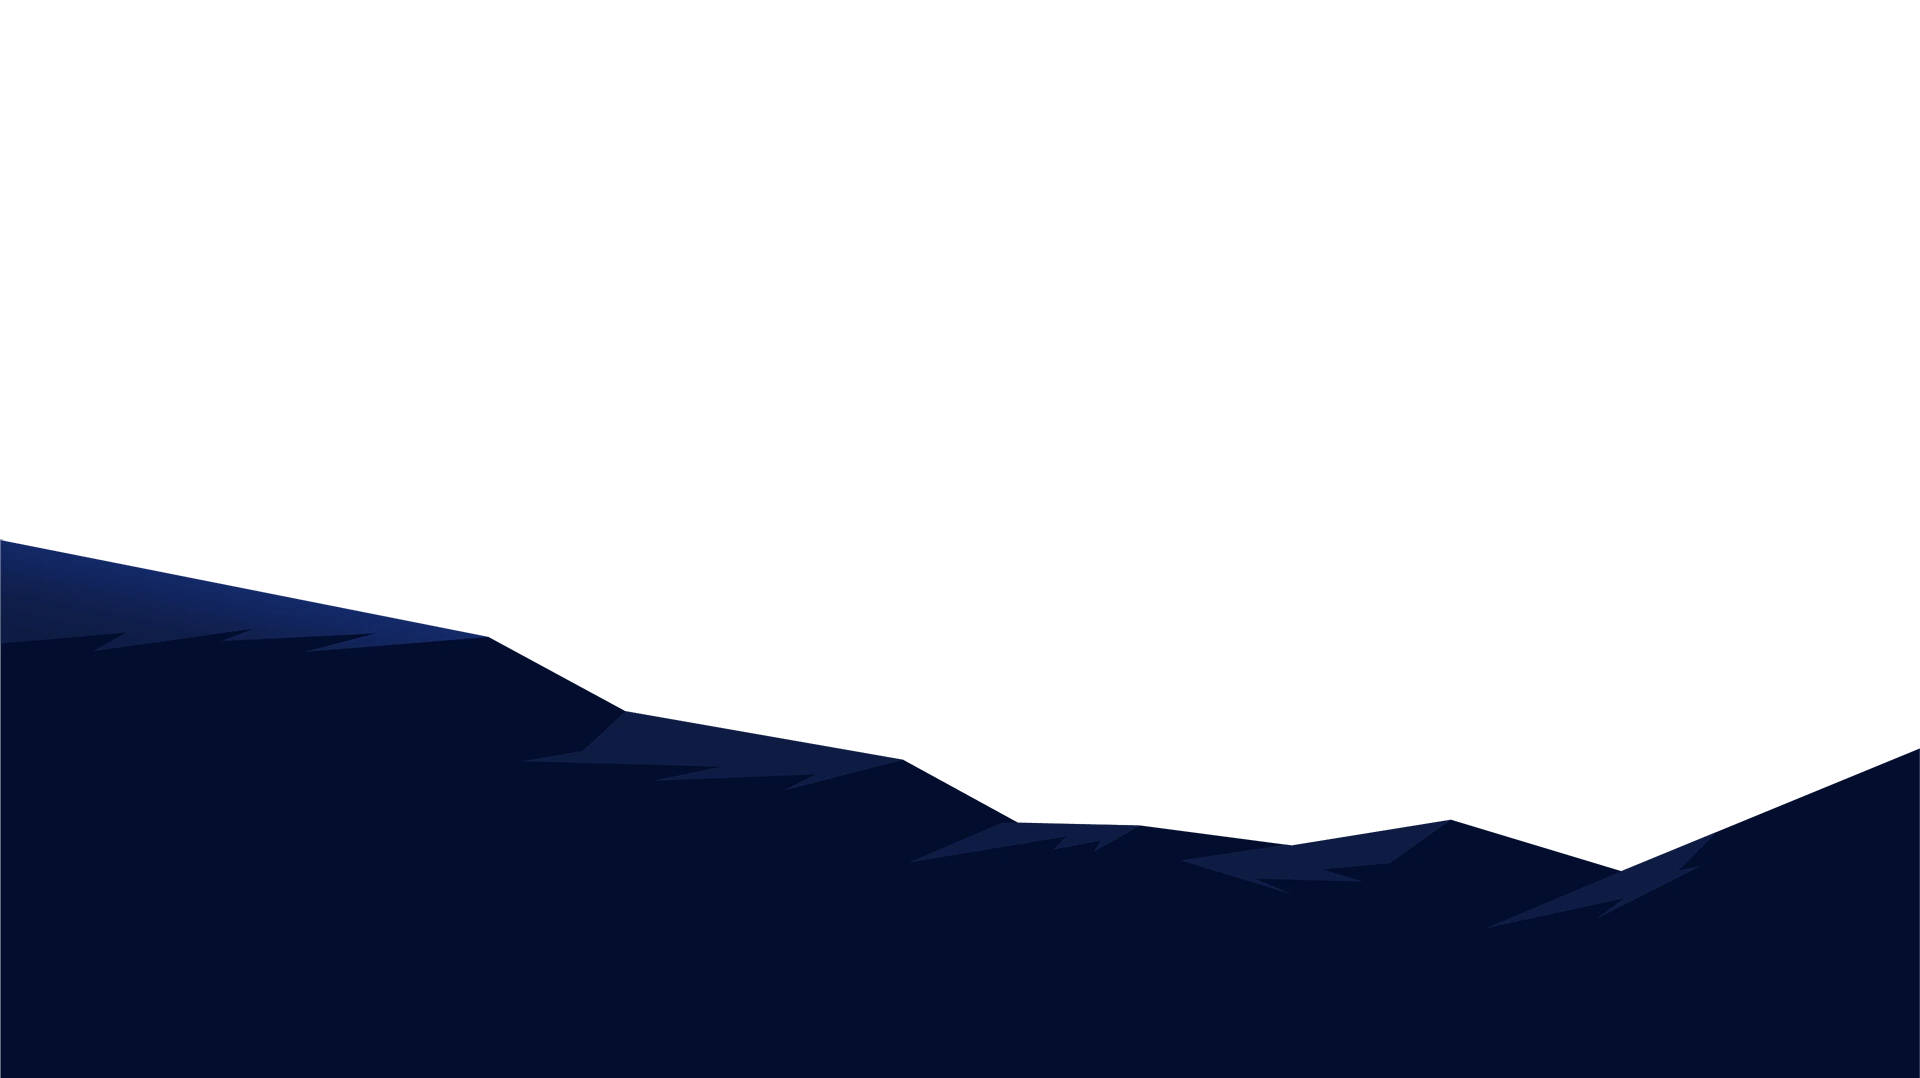
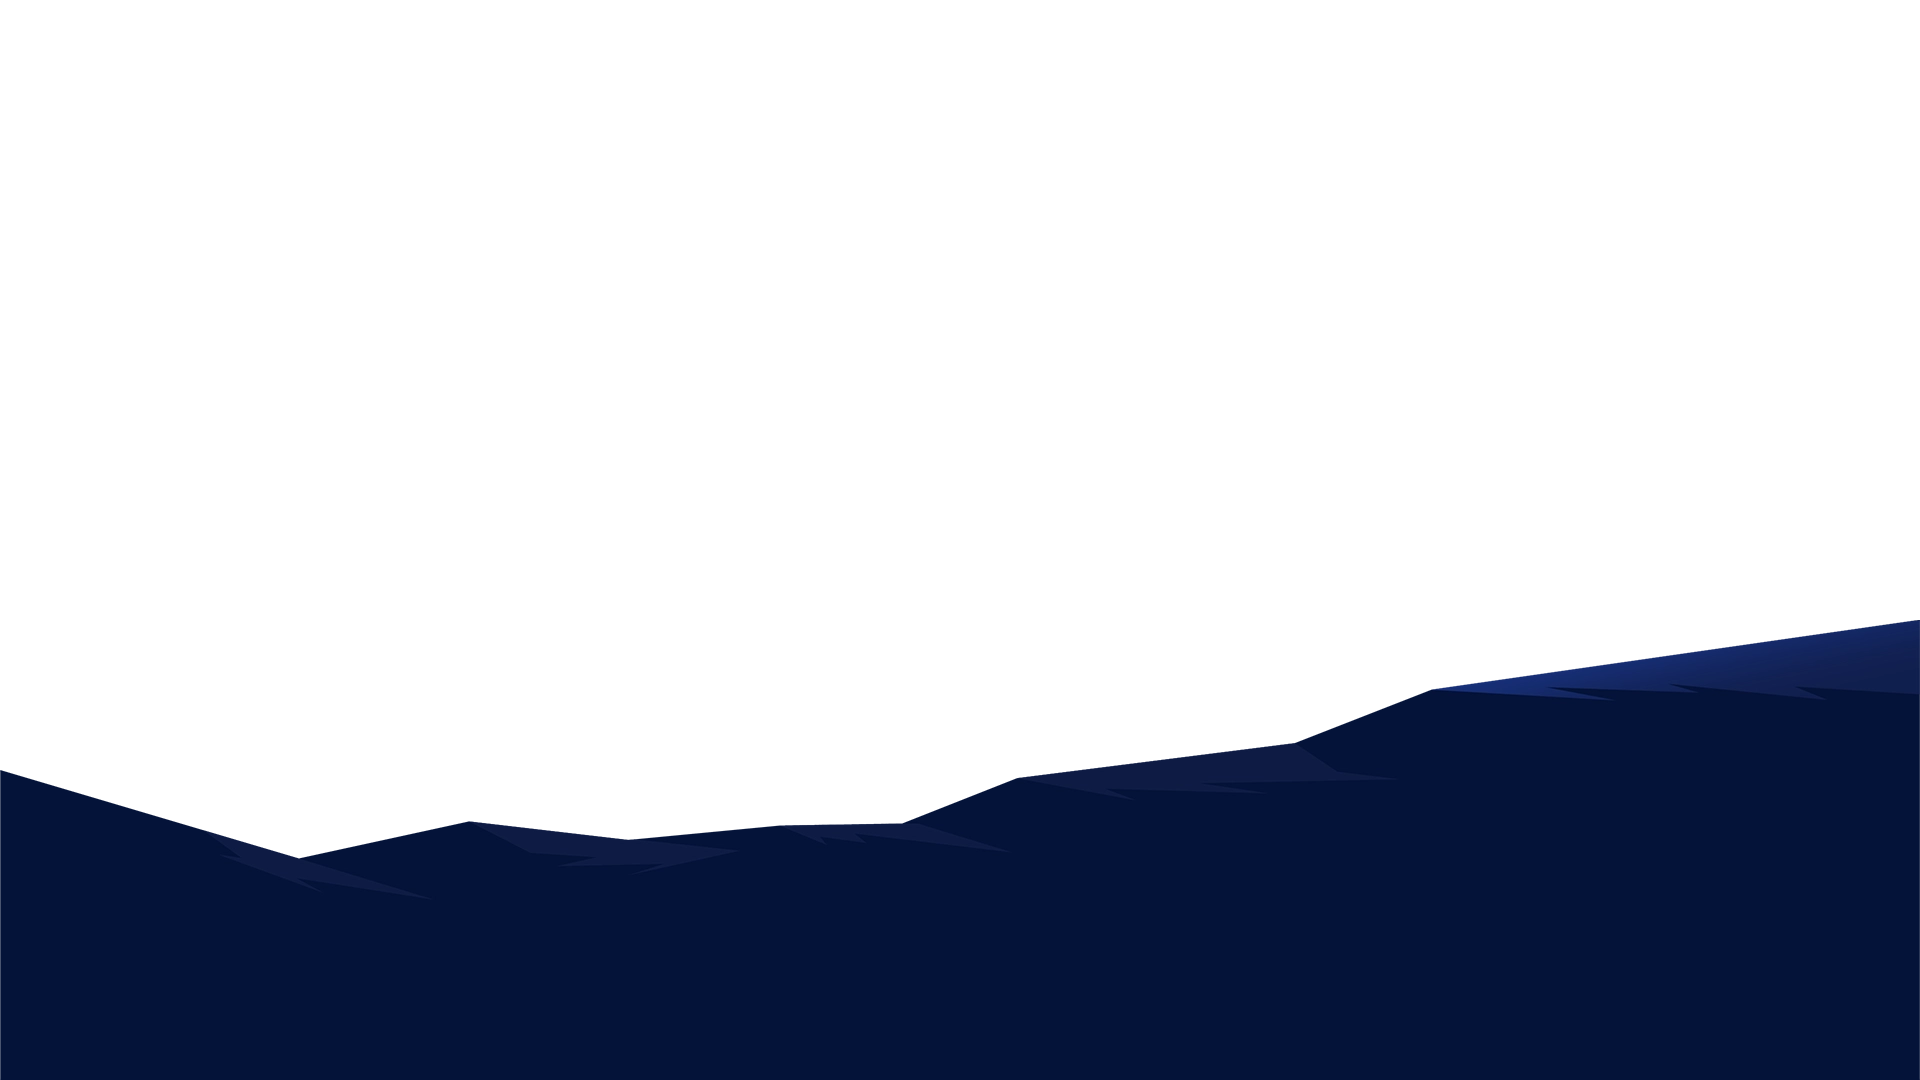
[UPDATE] Parallax composition #3

Changed region(s): [[0.0, 0.4898, 1.0, 0.8265]]

diff --git a/app/components/sections/HeroSection.vue b/app/components/sections/HeroSection.vue
@@ -13,39 +13,44 @@ onMounted(() => {
     <div class="hero__bg" />
 
     <!-- Couches parallax -->
-    <div class="hero__layer" data-depth="0.03">
+    <div class="hero__layer" data-depth="0.02">
       <img src="/parallax/aurora_stars.webp" alt="" aria-hidden="true" class="hero__img">
     </div>
 
-    <div class="hero__layer" data-depth="0.04">
+    <div class="hero__layer" data-depth="0.06">
       <img src="/parallax/moon.webp" alt="" aria-hidden="true" class="hero__img hero__img--moon">
     </div>
 
-    <div class="hero__layer" data-depth="0.13">
+    <div class="hero__layer" data-depth="0.10">
       <img src="/parallax/mountains-1.webp" alt="" aria-hidden="true" class="hero__img hero__img--bottom">
     </div>
-
-    <div class="hero__layer" data-depth="0.17">
-      <img src="/parallax/lake.webp" alt="" aria-hidden="true" class="hero__img hero__img--center">
+    <div class="hero__layer" data-depth="0.12">
+      <img src="/parallax/mountains-1-trees.webp" alt="" aria-hidden="true" class="hero__img hero__img--bottom">
     </div>
-    <div class="hero__layer" data-depth="0.28">
+    <div class="hero__layer" data-depth="0.16">
+      <img src="/parallax/lake.webp" alt="" aria-hidden="true" class="hero__img hero__img--lake">
+    </div>
+    <div class="hero__layer" data-depth="0.25">
       <img src="/parallax/trees-1.webp" alt="" aria-hidden="true" class="hero__img hero__img--bottom">
     </div>
-        <div class="hero__layer" data-depth="0.32">
-          <img src="/parallax/trees-2.webp" alt="" aria-hidden="true" class="hero__img hero__img--bottom">
-        </div>
-    <div class="hero__layer" data-depth="0.35">
+    <div class="hero__layer" data-depth="0.32">
+      <img src="/parallax/cliff.webp" alt="" aria-hidden="true" class="hero__img hero__img--bottom">
+    </div>
+    <div class="hero__layer" data-depth="0.36">
       <img src="/parallax/mountains-2.webp" alt="" aria-hidden="true" class="hero__img hero__img--bottom">
     </div>
-    <div class="hero__layer" data-depth="0.38">
+    <div class="hero__layer" data-depth="0.44">
+      <img src="/parallax/trees-2.webp" alt="" aria-hidden="true" class="hero__img hero__img--bottom">
+    </div>
+    <div class="hero__layer" data-depth="0.49">
       <img src="/parallax/mountains-3.webp" alt="" aria-hidden="true" class="hero__img hero__img--bottom">
     </div>
     <!-- Brume seule (dégradés radiaux, mix-blend-mode) -->
-    <div class="hero__layer" data-depth="0.40">
+    <div class="hero__layer" data-depth="0.52">
       <img src="/parallax/trees-3-brume.webp" alt="" aria-hidden="true" class="hero__img hero__img--bottom hero__img--exclusion">
     </div>
     <!-- Arbres seuls -->
-    <div class="hero__layer" data-depth="0.40">
+    <div class="hero__layer" data-depth="0.52">
       <img src="/parallax/trees-3.webp" alt="" aria-hidden="true" class="hero__img hero__img--bottom--trees">
     </div>
 

diff --git a/app/assets/scss/components/_hero.scss b/app/assets/scss/components/_hero.scss
@@ -3,7 +3,7 @@
   width: 100%;
   height: 100vh;
   overflow: hidden;
-  background-color: #000100; // couleur de fallback
+  background-color: #010511; // couleur de fallback
 }
 
 // Toutes les couches
@@ -35,7 +35,7 @@
     height: auto; // hauteur naturelle de l'image
     object-fit: initial;
     &--trees{
-      top:25%;
+      top: 10%;
     }
   }
   &--center {
@@ -44,9 +44,12 @@
     height: auto; // hauteur naturelle de l'image
     object-fit: initial;
   }
+  &--lake {
+    top:-1%;
+  }
   // Lune positionnée à droite
   &--moon {
-    top: 35%;
+    top: 30%;
     right: 15%;
     left: auto;
     width: 140px;
@@ -59,7 +62,7 @@
   }
   &--exclusion{
     mix-blend-mode: exclusion;
-    bottom: 1.5%;
+    bottom: -3%;
   }
 }
 

diff --git a/app/composables/useParallax.ts b/app/composables/useParallax.ts
@@ -19,7 +19,7 @@ export function useParallax() {
 
       layers.forEach((layer) => {
         const depth = parseFloat(layer.dataset.depth ?? '0')
-        const maxScroll = window.innerHeight * 0.70 // limite à 65% du viewport
+        const maxScroll = window.innerHeight * 0.60 // limite à 65% du viewport
         const scrollClamped = Math.min(scrollY, maxScroll)
         const translateY = -scrollClamped * depth
 
